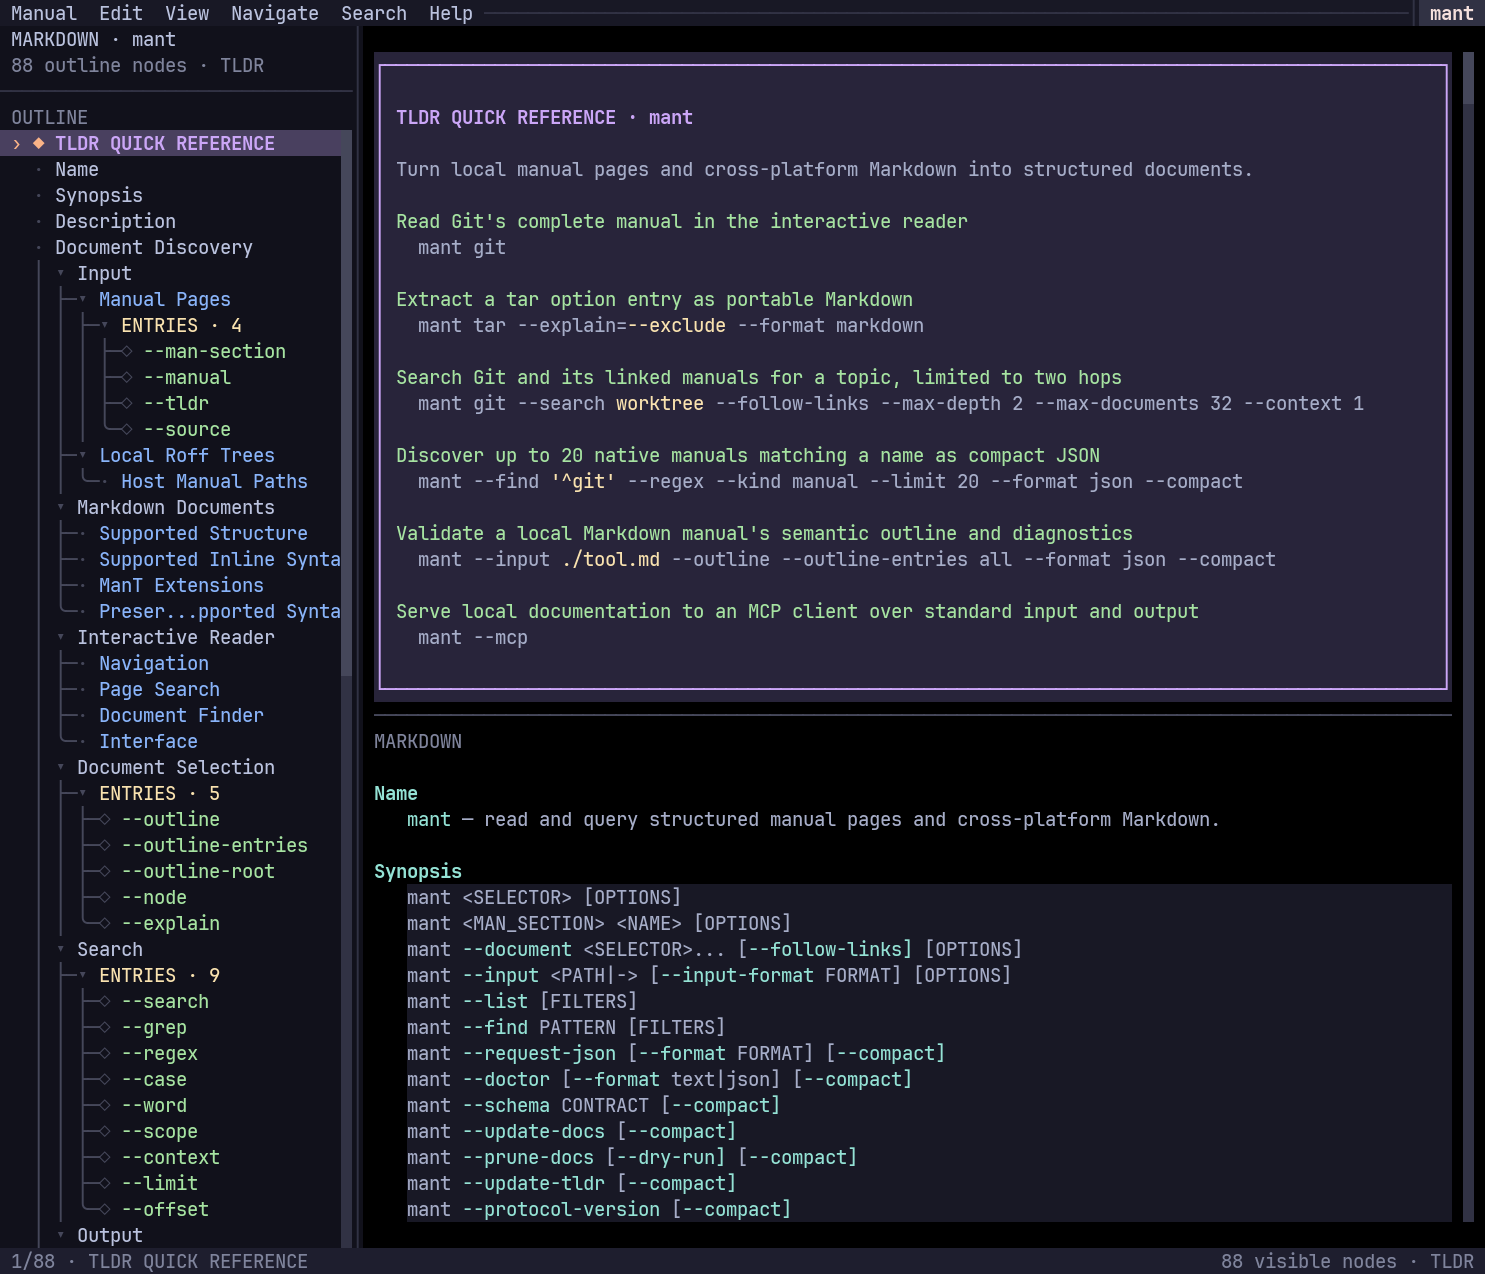
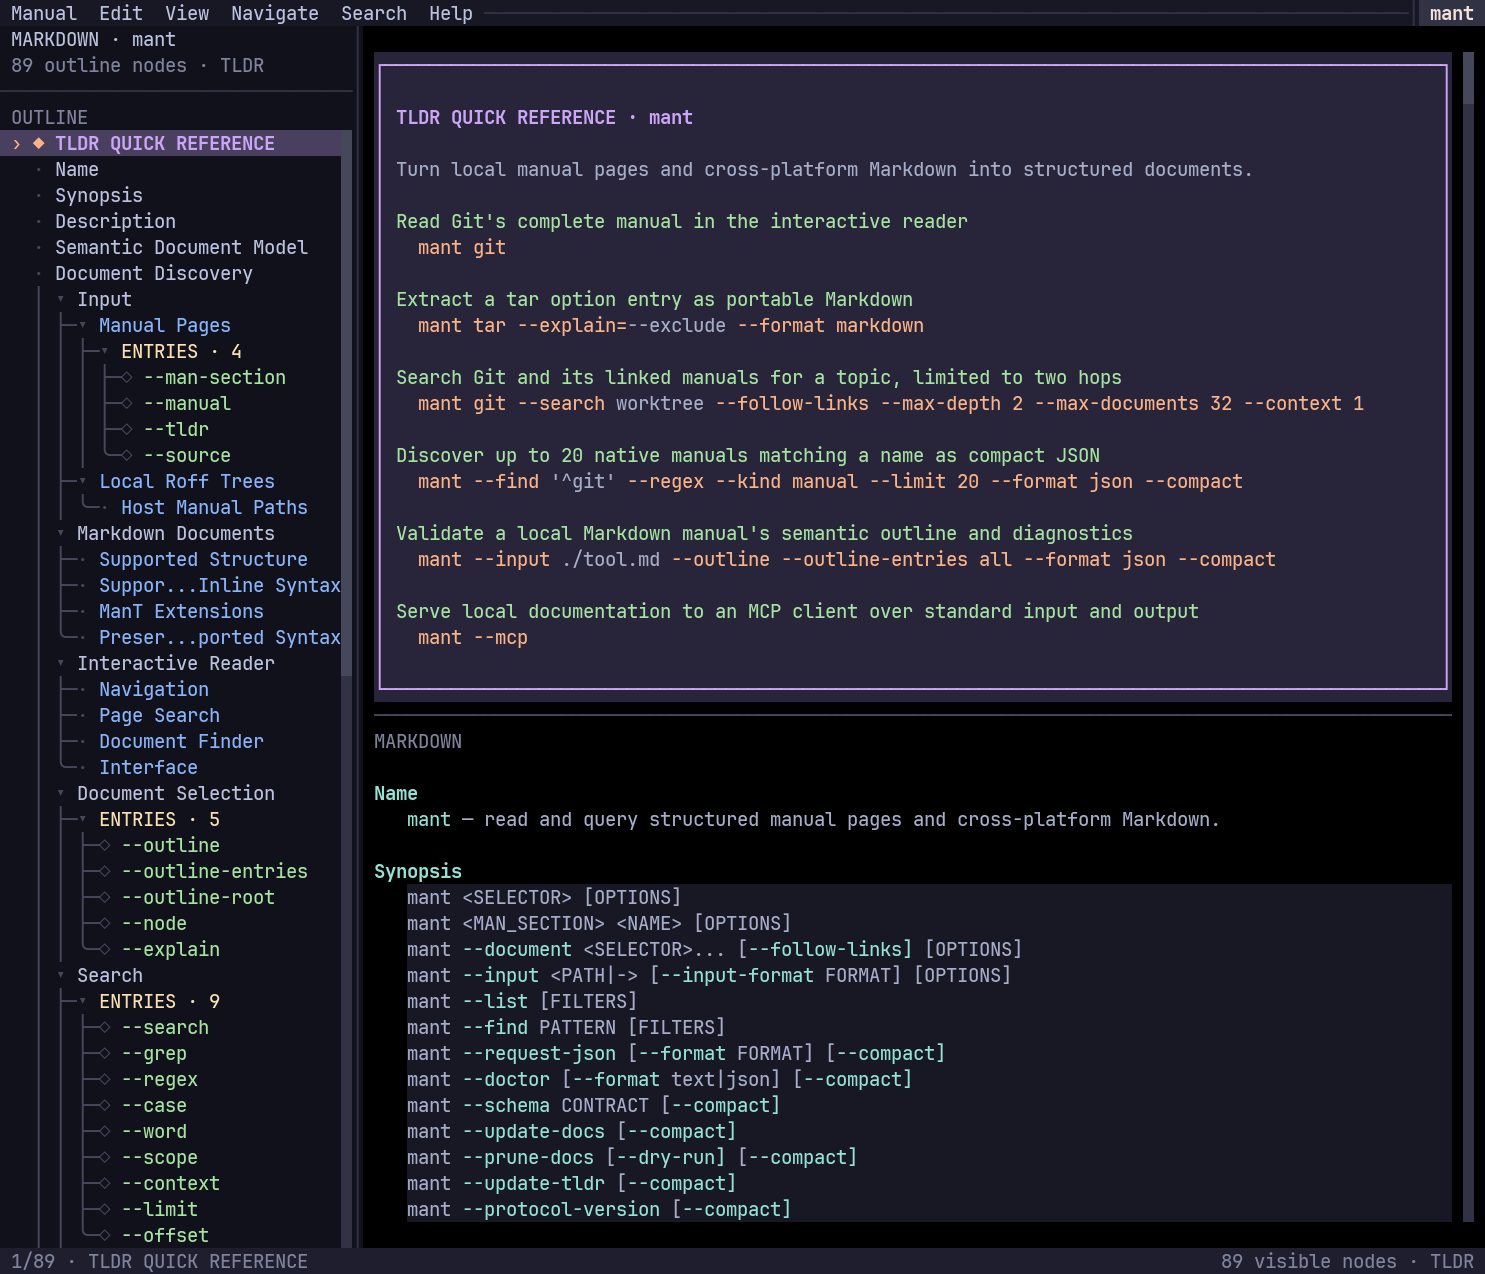
fix(tui): emphasize tldr command syntax
Render literal commands, options, and fixed syntax with the command accent while keeping replaceable tldr placeholders in the ordinary foreground color. Apply the same semantic mapping to the interactive panel and one-shot ANSI output without changing IR or plain text.

Pin both renderers with role-level tests and regenerate the inspected reader screenshot so the documented interface matches the shipped theme.

diff --git a/crates/mant-ui/src/tldr.rs b/crates/mant-ui/src/tldr.rs
@@ -11,9 +11,9 @@ pub enum TldrRole {
     Body,
     /// Human explanation for a command example.
     Example,
-    /// Literal shell command text.
+    /// Literal command syntax, including executable names and options.
     Command,
-    /// Replaceable command value.
+    /// Replaceable command value rendered without command emphasis.
     Placeholder,
     /// More-information link.
     Link,
@@ -134,9 +134,9 @@ fn line(indent: usize, role: TldrRole, text: impl Into<String>) -> TldrLine {
 const fn ansi_style(role: TldrRole) -> &'static str {
     match role {
         TldrRole::Title => "\x1b[1;38;2;203;166;247m",
-        TldrRole::Body | TldrRole::Command => "\x1b[38;2;166;173;200m",
+        TldrRole::Body | TldrRole::Placeholder => "\x1b[38;2;166;173;200m",
         TldrRole::Example => "\x1b[38;2;166;227;161m",
-        TldrRole::Placeholder => "\x1b[38;2;249;226;175m",
+        TldrRole::Command => "\x1b[38;2;250;179;135m",
         TldrRole::Link => "\x1b[4;38;2;137;180;250m",
         TldrRole::Attribution => "\x1b[38;2;127;132;156m",
     }
@@ -144,7 +144,7 @@ const fn ansi_style(role: TldrRole) -> &'static str {
 
 #[cfg(test)]
 mod tests {
-    use mant_ir::{TldrDocument, TldrOrigin};
+    use mant_ir::{TldrCommandPart, TldrDocument, TldrExample, TldrOrigin};
 
     use super::render_tldr_terminal;
 
@@ -154,7 +154,18 @@ mod tests {
             title: "demo".to_owned(),
             description: vec!["Do the thing.".to_owned()],
             more_information: None,
-            examples: Vec::new(),
+            examples: vec![TldrExample {
+                description: "Write a file.".to_owned(),
+                command: "demo --output file".to_owned(),
+                command_parts: vec![
+                    TldrCommandPart::Text {
+                        value: "demo --output ".to_owned(),
+                    },
+                    TldrCommandPart::Placeholder {
+                        value: "file".to_owned(),
+                    },
+                ],
+            }],
             platform: "common".to_owned(),
             language: "en".to_owned(),
             source_path: "demo.md".to_owned(),
@@ -166,6 +177,9 @@ mod tests {
         assert!(plain.contains("TLDR QUICK REFERENCE · demo"));
         assert!(colored.contains("TLDR QUICK REFERENCE · demo"));
         assert!(plain.contains("tldr-pages · CC BY 4.0 · common · en"));
+        assert!(plain.contains("  demo --output file\n"));
+        assert!(colored.contains("\x1b[38;2;250;179;135mdemo --output \x1b[0m"));
+        assert!(colored.contains("\x1b[38;2;166;173;200mfile\x1b[0m"));
 
         let embedded = TldrDocument {
             origin: TldrOrigin::Embedded,

diff --git a/crates/mant-ui/src/document/inline.rs b/crates/mant-ui/src/document/inline.rs
@@ -12,9 +12,9 @@ pub(super) fn tldr_style(role: crate::tldr::TldrRole) -> Style {
         TldrRole::Title => Style::default()
             .fg(theme::MAUVE)
             .add_modifier(Modifier::BOLD),
-        TldrRole::Body | TldrRole::Command => Style::default().fg(theme::TEXT),
+        TldrRole::Body | TldrRole::Placeholder => Style::default().fg(theme::TEXT),
         TldrRole::Example => Style::default().fg(theme::GREEN),
-        TldrRole::Placeholder => Style::default().fg(theme::YELLOW),
+        TldrRole::Command => Style::default().fg(theme::PEACH),
         TldrRole::Link => Style::default()
             .fg(theme::BLUE)
             .add_modifier(Modifier::UNDERLINED),

diff --git a/crates/mant-ui/src/document/tests.rs b/crates/mant-ui/src/document/tests.rs
@@ -768,14 +768,14 @@ fn tldr_is_rendered_as_a_bordered_full_width_panel() {
         .expect("tldr command");
     assert!(
         command.spans.iter().any(|span| {
-            span.content.contains("--output") && span.style.fg == Some(theme::TEXT)
+            span.content.contains("--output") && span.style.fg == Some(theme::PEACH)
         })
     );
     assert!(
         command
             .spans
             .iter()
-            .any(|span| span.content == "file" && span.style.fg == Some(theme::YELLOW))
+            .any(|span| span.content == "file" && span.style.fg == Some(theme::TEXT))
     );
 }
 

diff --git a/CHANGELOG.md b/CHANGELOG.md
@@ -108,6 +108,9 @@ that crate was not published for that change.
 
 - Resolve exact document, section, and inline fragment aliases to the same TUI
   rows as their normalized internal targets.
+- Emphasize literal commands and options in tldr examples while leaving
+  replaceable placeholders in the ordinary foreground color, matching their
+  source semantics in both the TUI and one-shot terminal presentation.
 
 ### mant 0.11.0
 
